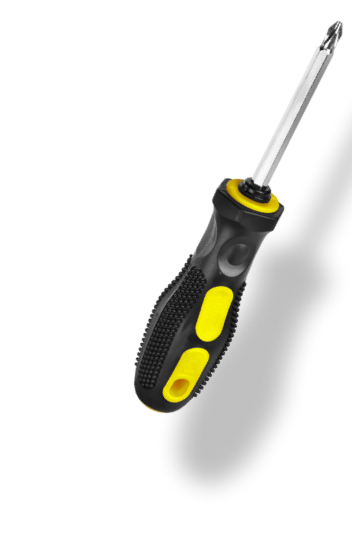
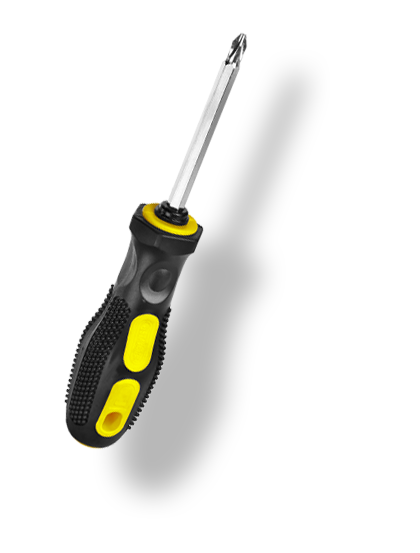
Вставил плавающие картинки в Наши работы

diff --git a/type.html b/type.html
@@ -41,124 +41,6 @@
 			<h2 class="section-title">Примеры работ</h2>
 		</div>
 		<div class="case-content">
-			<div class="case-half case-half-left">
-				<div class="case-box">
-					<div class="case-box-header">
-						<h3 class="case-box-title">Заголовок</h3>
-					</div>
-					<div class="case-box-body">
-						<div class="case-box-img-wrap">
-							<img src="img/works/roof-example.png" alt="Заголовок" class="case-box-img">
-						</div>
-						<div class="case-box-text-wrap">
-							<p class="case-box-text">C установкой натяжные потолки любой сложности в Ростове-на-Дону. Мы монтируем и самые простые конструкции в один или два уровня, и реализуем последние технические новинки, такие как Звездное небо, резной потолок</p>
-						</div>
-						<div class="case-box-price">
-							<span class="case-box-price-title">Цена проекта</span><span class="case-box-price-value">56666<small>гр</small></span>
-						</div>
-					</div>
-				</div>
-				<div class="case-box">
-					<div class="case-box-header">
-						<h3 class="case-box-title">Заголовок</h3>
-					</div>
-					<div class="case-box-body">
-						<div class="case-box-img-wrap"><img src="img/works/roof-example.png" alt="Заголовок" class="case-box-img"></div>
-						<div class="case-box-text-wrap">
-							<p class="case-box-text">C установкой натяжные потолки любой сложности в Ростове-на-Дону. Мы монтируем и самые простые конструкции в один или два уровня, и реализуем последние технические новинки, такие как Звездное небо, резной потолок</p>
-						</div>
-						<div class="case-box-price">
-							<span class="case-box-price-title">Цена проекта</span><span class="case-box-price-value">56666<small>гр</small></span>
-						</div>
-					</div>
-				</div>
-				<div class="case-box">
-					<div class="case-box-header">
-						<h3 class="case-box-title">Заголовок</h3>
-					</div>
-					<div class="case-box-body">
-						<div class="case-box-img-wrap"><img src="img/works/roof-example.png" alt="Заголовок" class="case-box-img"></div>
-						<div class="case-box-text-wrap">
-							<p class="case-box-text">C установкой натяжные потолки любой сложности в Ростове-на-Дону. Мы монтируем и самые простые конструкции в один или два уровня, и реализуем последние технические новинки, такие как Звездное небо, резной потолок</p>
-						</div>
-						<div class="case-box-price">
-							<span class="case-box-price-title">Цена проекта</span><span class="case-box-price-value">56666<small>гр</small></span>
-						</div>
-					</div>
-				</div>
-				<div class="case-box">
-					<div class="case-box-header">
-						<h3 class="case-box-title">Заголовок</h3>
-					</div>
-					<div class="case-box-body">
-						<div class="case-box-img-wrap"><img src="img/works/roof-example.png" alt="Заголовок" class="case-box-img"></div>
-						<div class="case-box-text-wrap">
-							<p class="case-box-text">C установкой натяжные потолки любой сложности в Ростове-на-Дону. Мы монтируем и самые простые конструкции в один или два уровня, и реализуем последние технические новинки, такие как Звездное небо, резной потолок</p>
-						</div>
-						<div class="case-box-price">
-							<span class="case-box-price-title">Цена проекта</span><span class="case-box-price-value">56666<small>гр</small></span>
-						</div>
-					</div>
-				</div>
-			</div>
-			<div class="case-half case-half-right">
-				<div class="case-box">
-					<div class="case-box-header">
-						<h3 class="case-box-title">Заголовок</h3>
-					</div>
-					<div class="case-box-body">
-						<div class="case-box-img-wrap"><img src="img/works/roof-example.png" alt="Заголовок" class="case-box-img"></div>
-						<div class="case-box-text-wrap">
-							<p class="case-box-text">C установкой натяжные потолки любой сложности в Ростове-на-Дону. Мы монтируем и самые простые конструкции в один или два уровня, и реализуем последние технические новинки, такие как Звездное небо, резной потолок</p>
-						</div>
-						<div class="case-box-price">
-							<span class="case-box-price-title">Цена проекта</span><span class="case-box-price-value">56666<small>гр</small></span>
-						</div>
-					</div>
-				</div>
-				<div class="case-box">
-					<div class="case-box-header">
-						<h3 class="case-box-title">Заголовок</h3>
-					</div>
-					<div class="case-box-body">
-						<div class="case-box-img-wrap"><img src="img/works/roof-example.png" alt="Заголовок" class="case-box-img"></div>
-						<div class="case-box-text-wrap">
-							<p class="case-box-text">C установкой натяжные потолки любой сложности в Ростове-на-Дону. Мы монтируем и самые простые конструкции в один или два уровня, и реализуем последние технические новинки, такие как Звездное небо, резной потолок</p>
-						</div>
-						<div class="case-box-price">
-							<span class="case-box-price-title">Цена проекта</span><span class="case-box-price-value">56666<small>гр</small></span>
-						</div>
-					</div>
-				</div>
-				<div class="case-box">
-					<div class="case-box-header">
-						<h3 class="case-box-title">Заголовок</h3>
-					</div>
-					<div class="case-box-body">
-						<div class="case-box-img-wrap"><img src="img/works/roof-example.png" alt="Заголовок" class="case-box-img"></div>
-						<div class="case-box-text-wrap">
-							<p class="case-box-text">C установкой натяжные потолки любой сложности в Ростове-на-Дону. Мы монтируем и самые простые конструкции в один или два уровня, и реализуем последние технические новинки, такие как Звездное небо, резной потолок</p>
-						</div>
-						<div class="case-box-price">
-							<span class="case-box-price-title">Цена проекта</span><span class="case-box-price-value">56666<small>гр</small></span>
-						</div>
-					</div>
-				</div>
-				<div class="case-box">
-					<div class="case-box-header">
-						<h3 class="case-box-title">Заголовок</h3>
-					</div>
-					<div class="case-box-body">
-						<div class="case-box-img-wrap"><img src="img/works/roof-example.png" alt="Заголовок" class="case-box-img"></div>
-						<div class="case-box-text-wrap">
-							<p class="case-box-text">C установкой натяжные потолки любой сложности в Ростове-на-Дону. Мы монтируем и самые простые конструкции в один или два уровня, и реализуем последние технические новинки, такие как Звездное небо, резной потолок</p>
-						</div>
-						<div class="case-box-price">
-							<span class="case-box-price-title">Цена проекта</span><span class="case-box-price-value">56666<small>гр</small></span>
-						</div>
-					</div>
-				</div>
-			</div>
 		</div>
 	</div>
 </section>

diff --git a/works.html b/works.html
@@ -57,6 +57,7 @@
 							<span class="case-box-price-title">Цена проекта</span><span class="case-box-price-value">56666<small>гр</small></span>
 						</div>
 					</div>
+					<img id="case-screwdriver" src="img/main/screwdriver.png" alt="" class="absolute-image">
 				</div>
 				<div class="case-box">
 					<div class="case-box-header">
@@ -99,6 +100,7 @@
 							<span class="case-box-price-title">Цена проекта</span><span class="case-box-price-value">56666<small>гр</small></span>
 						</div>
 					</div>
+					<img id="case-helmet" src="img/main/helmet.png" alt="" class="absolute-image">
 				</div>
 			</div>
 			<div class="case-half case-half-right">
@@ -129,6 +131,7 @@
 							<span class="case-box-price-title">Цена проекта</span><span class="case-box-price-value">56666<small>гр</small></span>
 						</div>
 					</div>
+					<img id="case-turn-screw" src="img/main/turn-screw.png" alt="" class="absolute-image">
 				</div>
 				<div class="case-box">
 					<div class="case-box-header">

diff --git a/css/works.css b/css/works.css
@@ -98,6 +98,12 @@ textarea {
 	z-index: 200;
 }
 
+.absolute-image {
+	position: absolute;
+	top: 0;
+	left: 0;
+}
+
 .works {
 	padding: 0;
 	height: 100vh;
@@ -153,6 +159,7 @@ textarea {
 	justify-content: space-between;
 }
 .case-box {
+	position: relative;
 	display: inline-block;
 	margin-bottom: 35px;
 	box-shadow: 0px 4px 15px rgba(0, 0, 0, 0.7);
@@ -218,9 +225,29 @@ textarea {
 	margin-top: 170px;
 }
 
+#case-screwdriver {
+	top: -200px;
+	left: -240px;
+}
+
+#case-turn-screw {
+	top: -305px;
+	right: -260px;
+	left: auto;
+}
+
+#case-helmet {
+	top: -170px;
+	left: -180px;
+}
+
 @media (max-width: 1199.9px) {
 	.main-menu {
 		text-align: center;
+	}
+
+	.absolute-image {
+		display: none;
 	}
 }
 @media (max-width: 991.9px) {
